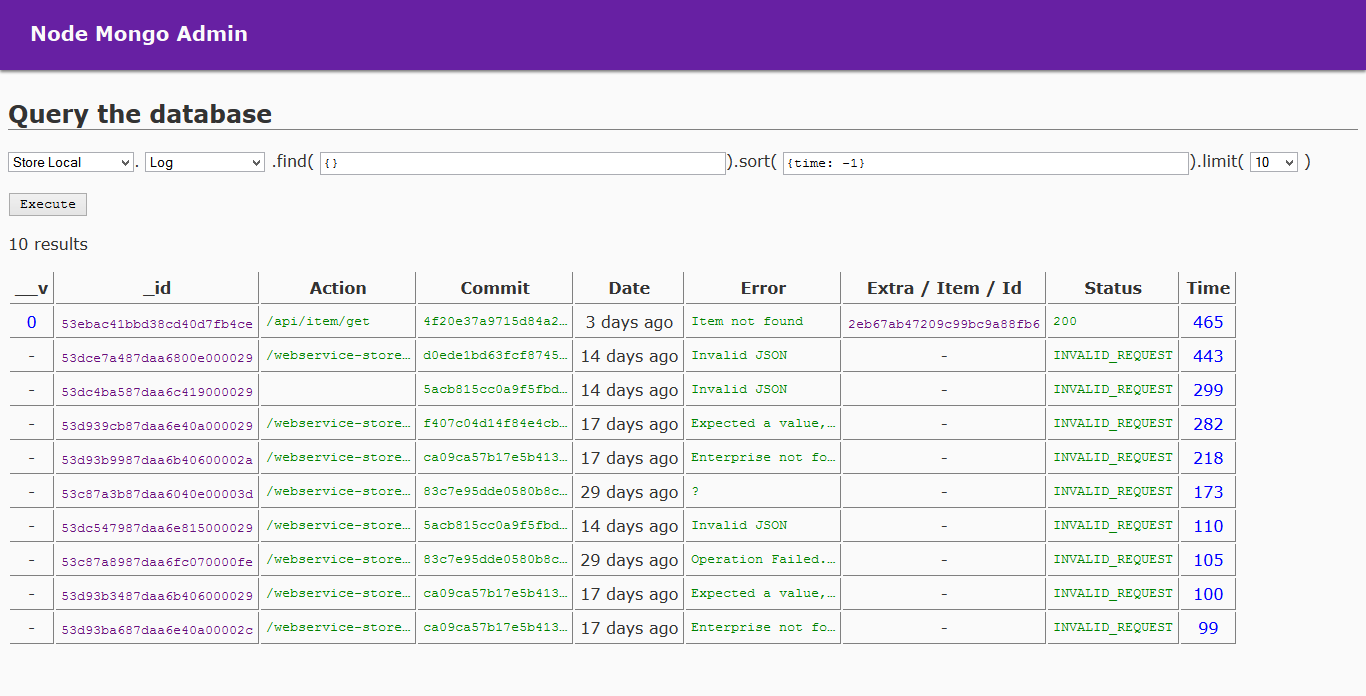
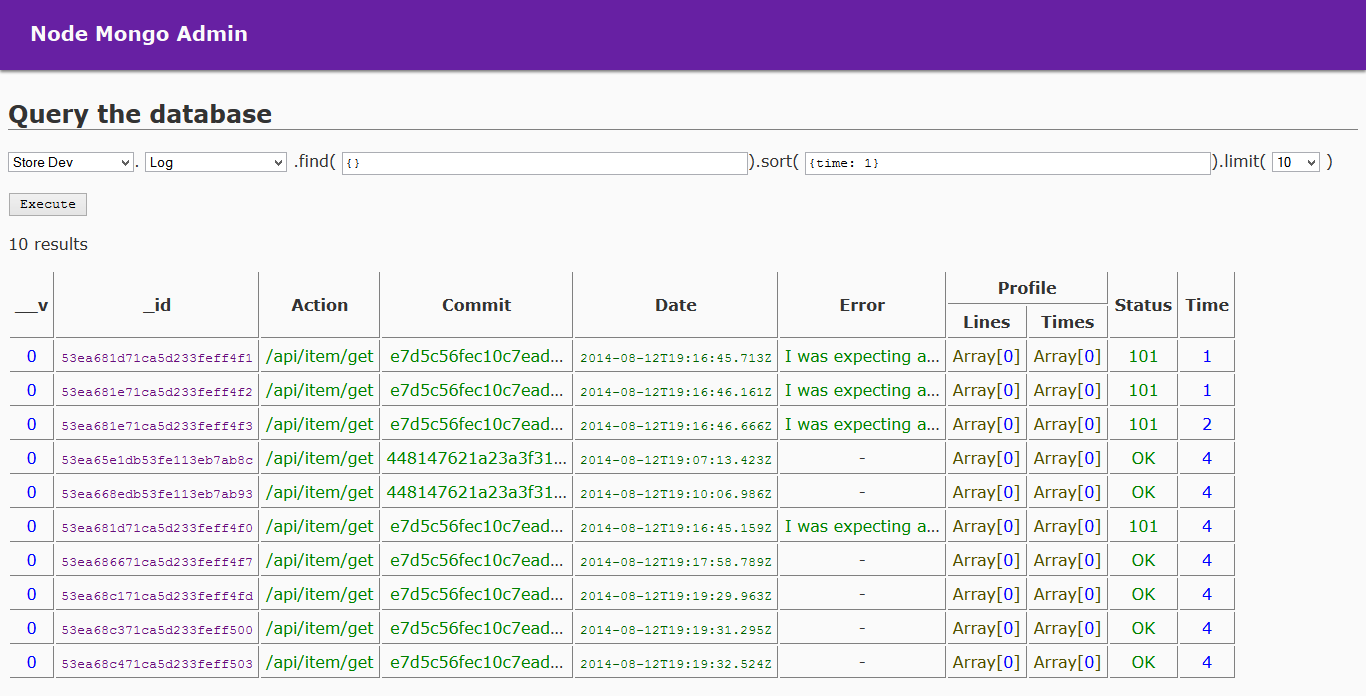
Show empty objects; update screenshot

diff --git a/public/Query.js b/public/Query.js
@@ -121,7 +121,8 @@ Query.showResult = function (docs) {
 			if (value &&
 				typeof value === 'object' &&
 				!Array.isArray(value) &&
-				Query.specialTypes.indexOf(value.constructor) === -1) {
+				Query.specialTypes.indexOf(value.constructor) === -1 &&
+				Object.keys(value).length) {
 				addSubDoc(value, subpath, i)
 			} else {
 				// Primitive value

diff --git a/README.md b/README.md
@@ -3,7 +3,7 @@
 A simple web application to visualize mongo data inspired by PHPMyAdmin
 
 ## Install
-1. Clone this repo
+1. Clone [the repo](https://github.com/clubedaentrega/node-mongo-admin)
 2. Copy the file `example-config.js` to `config.js` and edit what you want
 3. Start with `node index` or, if you have `forever`, `npm start`
 
@@ -14,7 +14,7 @@ A simple web application to visualize mongo data inspired by PHPMyAdmin
 * Relaxed query language (accepts not only JSON, but also plain JS)
 
 ## Example
-![example](ss.png)
+![screen shot](https://raw.githubusercontent.com/clubedaentrega/node-mongo-admin/master/ss.png)
 
 ## TODO
 * Edit documents
